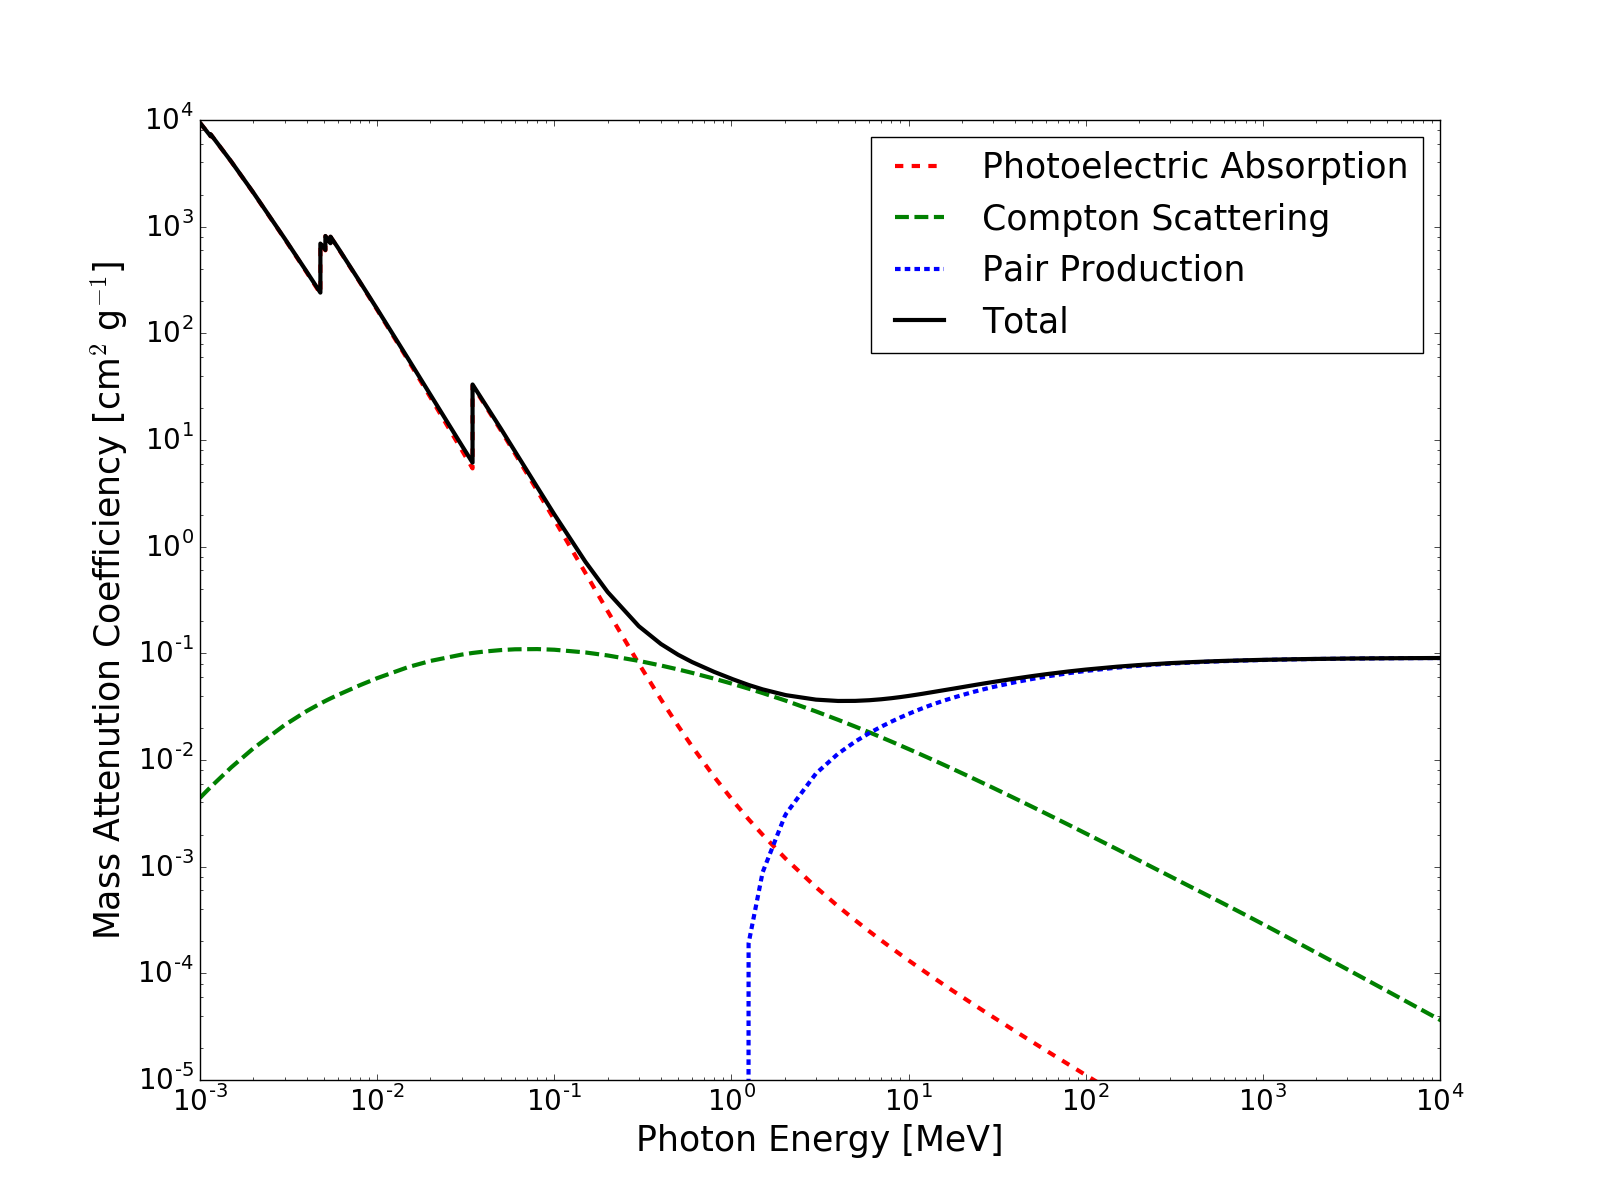
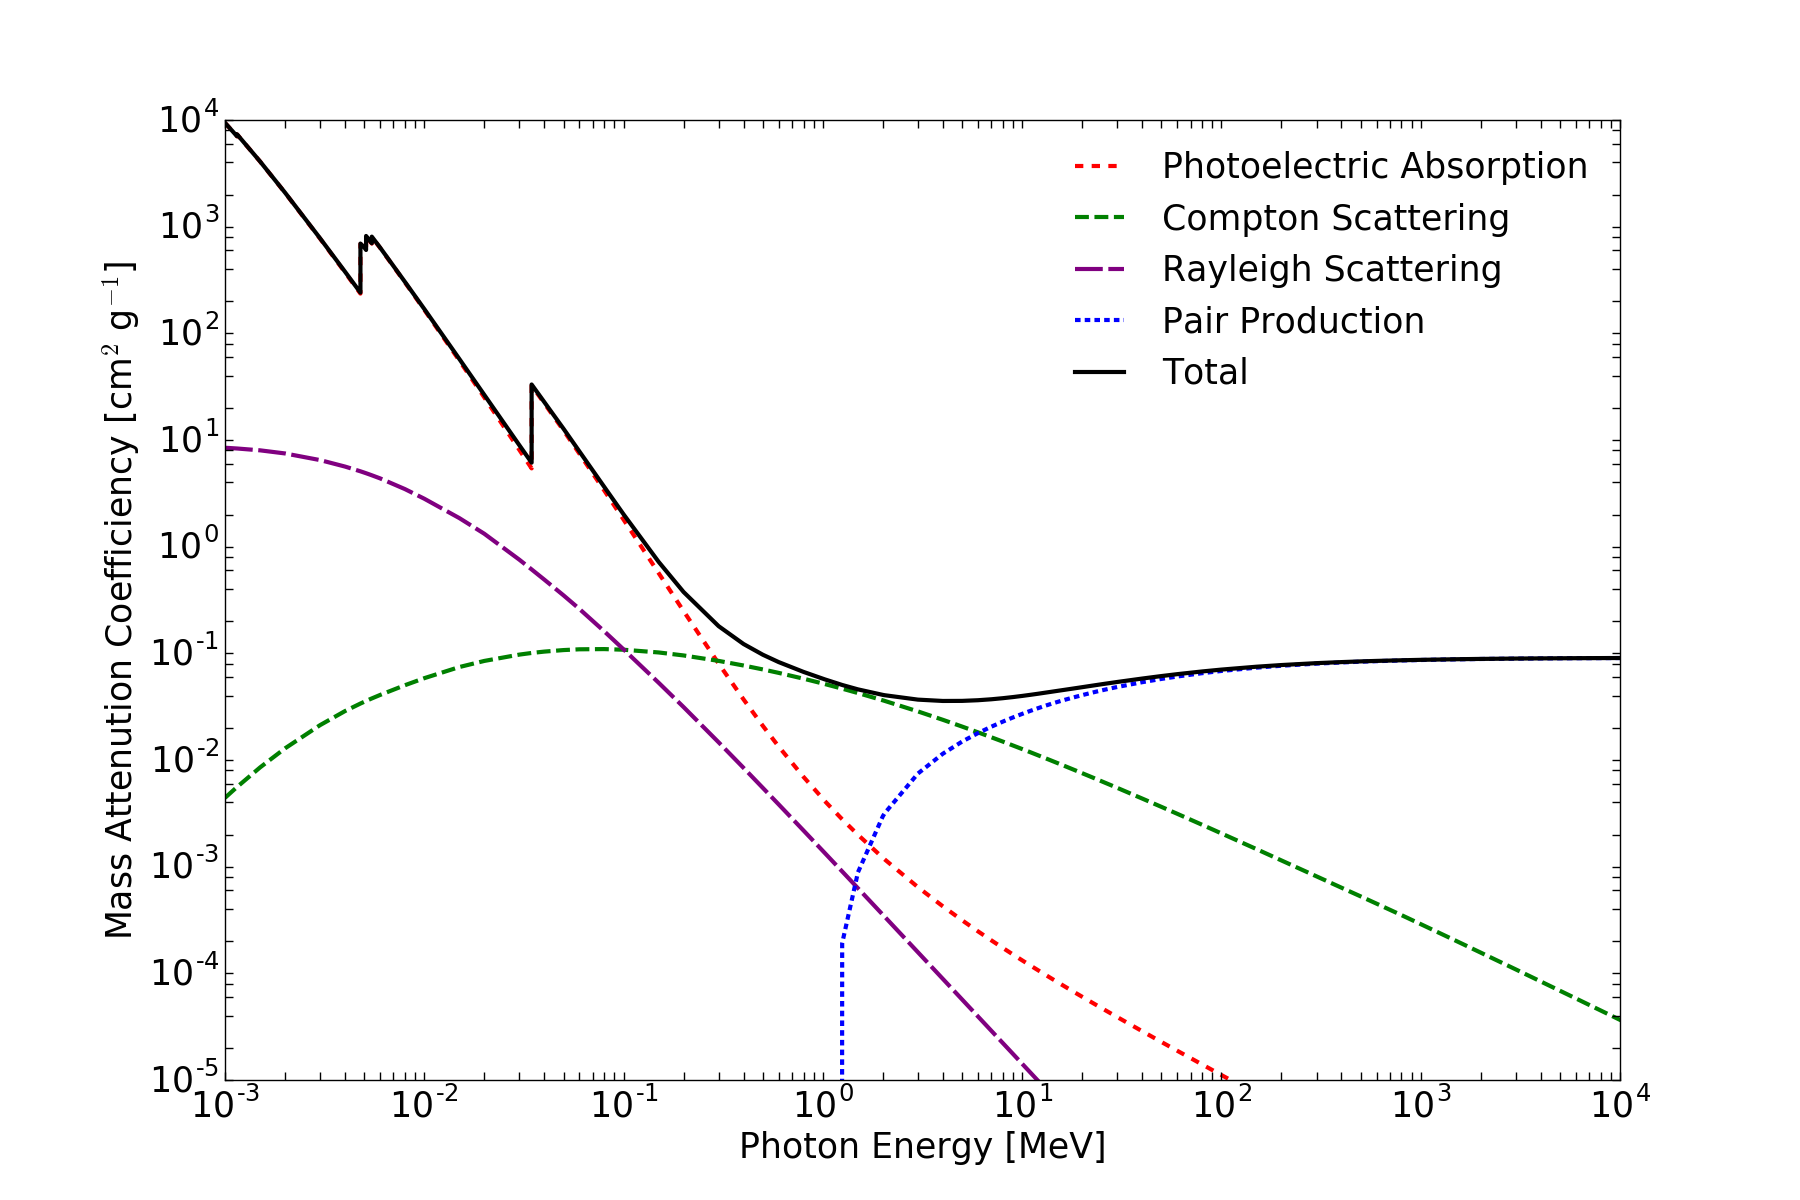
update

diff --git a/Chapter3/Chapter3.tex b/Chapter3/Chapter3.tex
@@ -199,7 +199,7 @@ to exceeding this gain.
 The relatively poor resolution is apparent in \figref{fig:xenon1t_pmt_spe} as the photoelectron peaks are hard to distinguish.  An
 important metric of the SPE spectrum is the peak-to-valley ratio, which divides the first PE peak by the valley that sits between it and
 the baseline noise.  As with $R$ it increases for low gains and eventually levels.  For gains of $2-3 \times 10^{6}$ the mean
-peak-to-valley ratio is $\sim 3$.
+peak-to-valley ratio is ${\sim} 3$.
 
 An additional six Hamamatsu R8520 PMTs reside in LXe outside the TPC near the top electrode for studying calibrations.  These PMTs have
 been used in a number of LXe TPCs including XENON100, the predecessor to XENON1T (\citeref{Goetzke2017}, see \citeref{Aprile2012a} for
@@ -215,7 +215,7 @@ light and charge can be measured.  A schematic is shown in \figref{fig:xenon1t_t
 PTFE panels that were treated with diamond tools to
 maximize VUV reflectivity.  Each interlocks with adjacent panels to achieve light-tightness, and the system is designed so that despite
 the high thermal expansion coefficient the radius does not contract when lowered to $-96^{\circ}\ \mathrm{C}$.  Outside the PTFE are 74
-field shaping rings made of low-radioactivity OFHC copper, each with a cross section of $\sim 10 \times 5\ \mathrm{mm^{2}}$.  They are
+field shaping rings made of low-radioactivity OFHC copper, each with a cross section of ${\sim} 10 \times 5\ \mathrm{mm^{2}}$.  They are
 supported by 18 PTFE pillars stationed around the circumference.  Two redundant
 chains connect adjoining rings via $5\ \mathrm{G \Omega}$ resistors, each with a $25\ \mathrm{G \Omega}$ resistor between the bottom and
 cathode.
@@ -283,7 +283,7 @@ tall by 1100 mm diamater and is metal-sealed
 with Helicoflex.  Surrounding it is the 2490 mm tall by 1620 mm diamater outer cryostat.  It is also composed of stainless steel but
 because there is no contact with xenon electropolishing is unncessary.  Materials were screened prior to construction for low-radioactivity
 selection.  The two are thermally isolated by Torlon polyamide-imide spacers and
-vacuum between them.  Heat loss is further mitigated to $\sim 75\ \mathrm{W}$ by aluminized mylar foil wrapped around the inner vessel.
+vacuum between them.  Heat loss is further mitigated to ${\sim} 75\ \mathrm{W}$ by aluminized mylar foil wrapped around the inner vessel.
 
 A 10 m high stainless steel support structure was built inside the water tank.  Attached are three M20 rods that suspend the
 cryostat.  They can be adjusted independently to tilt the cryostat, thereby changing the inclination of the LXe level with respect to the
@@ -305,15 +305,15 @@ TPC and inner vessel or GXe above the liquid level.  The nominal LXe temperature
 the cryostat is liquified by pulse-tube refrigerators (PTRs) into a funnel and flows back to the TPC through a designated pipe and
 deposited in the inner vessel beneath the TPC.  Because
 the PTRs are higher than the TPC the flow is guided by gravity.  \figref{fig:xenon1t_cryogenics_schmatic} shows the layout of the cryogenic
-system.  The two PTRs occupy independent cooling towers and can each deliver $\sim 250\ \mathrm{W}$ of cooling power, and with
-a total heat xenon heat load of $\sim 150\ \mathrm{W}$ only one needs to be active at any time.  The cooling towers along with much of the
+system.  The two PTRs occupy independent cooling towers and can each deliver ${\sim} 250\ \mathrm{W}$ of cooling power, and with
+a total heat xenon heat load of ${\sim} 150\ \mathrm{W}$ only one needs to be active at any time.  The cooling towers along with much of the
 GXe are located in the service building outside of the water tank  Each PTR connects to a copper cold finger
 inside the inner cryostat so they can be removed without exposing the xenon to air.  A proportional-integral-derivative (PID) controller
 monitors and adjusts the temperature of a resistive heater on the coldfinger to maintain stable pressure and temperature.
 
 A third cooling tower uses liquid nitrogen ($\mathrm{LN_2}$) and is used in the case of an emergency if both PTRs are being serviced or the
 heat load becomes too great from e.g. loss of power or insulation vacuum.  The $\mathrm{LN_2}$ flows from the $10 \mathrm{m^3}$ tank that
-is used by ReStoX (\secref{}).  The cooling power can regulated by adjusting the $\mathrm{LN_2}$ evaporation rate.  In the event the PTRs
+is used by ReStoX (\secref{subsec:xenon1t_restox}).  The cooling power can regulated by adjusting the $\mathrm{LN_2}$ evaporation rate.  In the event the PTRs
 lose power the $\mathrm{LN_2}$ cooling tower must react immediately to prevent rising pressure that can be damaging to PMTs among other
 things.  Sensors and controllers monitoring such a power loss are powered with uninterruptible power supplies (UPSs) to ensure a successful
 transition and operation of $\mathrm{LN_2}$.
@@ -347,7 +347,7 @@ efficiency $\epsilon$ as the fraction of heat necessary for temperature change a
 efficiency results in greater thermal energy transferred between the GXe and LXe and thus decreases the heat load on the system.  This is
 because instead of GXe entering the cryostat at roughly
 room temperature, it returns at approximately that of LXe, with much of it having condensed to LXe, putting less stress on the
-PTRs.  An essential ingredient of the heat transfer is the latent heat, which comprises $\sim 80\%$ of the total exchange.  The difference
+PTRs.  An essential ingredient of the heat transfer is the latent heat, which comprises ${\sim} 80\%$ of the total exchange.  The difference
 in vaporization temperature of the outgoing xenon and condensation temperature of incoming xenon is given by
 
 \begin{equation}
@@ -358,11 +358,10 @@ in vaporization temperature of the outgoing xenon and condensation temperature o
 where $T_{\mathrm{gl}} (P)$ is the temperature of the gas-liquid phase transition that depends on pressure, and $P_i$ and $P_o$ are the
 pressures of the incoming and outgoing xenon, respectively.  Because the conditions of the dynamical gas flow
 (\secref{subsec:xenon1t_pur}) cause $P_i > P_o$, $\Delta T_{\mathrm{ph}} > 0$, making it effective at heat transfer
-(\citeref{Aprile2012b}).
-
-A study with the Demonstrator - the
+(\citeref{Aprile2012b}).  A study with the Demonstrator - the
 experiment used to for research and development for XENON1T - showed a heat exchange efficiency of
-two heat exchangers in series of $\geq 96\%$ (\citeref{Aprile2012b}).
+two heat exchangers in series of $\geq 96\%$ (\citeref{Aprile2012b}).  Following the parallel-plate exchanger a heater provides additional
+thermal energy to the xenon moving towards the purification system.
 
 
 
@@ -370,32 +369,118 @@ two heat exchangers in series of $\geq 96\%$ (\citeref{Aprile2012b}).
 \label{subsec:xenon1t_pur}
 Contamination in LXe can present a number of problems.  As mentioned in \secref{subsec:tpcs_working_principle} electronegative
 impurities (e.g. O$_2$, H$_2$O, N$_2$O, etc.) will attach to drifting $e^-$, reducing the number that reach
-the liquid surface and thus the S2.  They will also absorb scintillation, which pushes our energy threshold up as fainter signals become
-harder to detect.  \figref{fig:xenon1t_pur_absorption_spectra} shows the Xe scintillation spectrum along with the \otwo and \htwoo vapor
-absorption coefficients.  We can see there is large overlap - especially for H$_2$O.  In addition to electronegative there are intrinsic
-impurities including Kr and Rn but these are discussed in \secref{xenon1t_distillation}.
+the liquid surface and thus the S2.
+
+Impurities will also attenuate scintillation, which pushes our energy threshold up as fainter signals become harder to detect.  This is
+described by
+
+\begin{equation}
+I(x) = I_0 e^{-x / \lambda_{\mathrm{att}}}
+\label{eq:xenon1t_pur_atten}
+\end{equation}
+
+where $I_0$ is initial number of photons, $I(x)$ is the number after traveling a distance $x$, and $\lambda_{\mathrm{att}}$ is the
+attenuation length.  $\lambda_{\mathrm{att}}$ is dependent on the absorption and scatter lengths, $\lambda_{\mathrm{abs}}$ and
+$\lambda_{\mathrm{scat}}$.  The absorption length describes the true loss of photons while the scatter refers to photons that elastically
+scatter without energy loss.  The attenuation length can then be written
+$1 / \lambda_{\mathrm{att}} = 1 / \lambda_{\mathrm{abs}} + 1 / \lambda_{\mathrm{scat}}$.  \figref{fig:xenon1t_pur_absorption_spectra} shows
+the Xe scintillation spectrum along with the absorption coefficients for \otwo and \htwoo vapor at concentrations of 1 ppm.  We can see
+there is large overlap at lower wavelengths - especially for H$_2$O - and that observations under these circumstances would lead to an
+incorrect measurement of the scintillation spectrum.  In addition to electronegative there are intrinsic
+impurities including Kr and Rn but these are discussed in \secref{xenon1t_kr_dist}.
 
 \begin{figure}
 \centering
 \includegraphics[width=0.8\textwidth]{AbsorptionSpectra}
-\caption{Xe scintillation spectrum along with absorption coefficients for oxygen and water vapor.  \otwo has a maximum value of overlap
-with Xe of $\sim 0.1$ around 166 nm.  \htwoo covers a larger range of xenon's spectrum and has a much more significant impact, with a
-maximum value of $> 0.4$ at approximately 172 nm and $\sim 0.2$ at 178 nm.  Image credit: \citeref{}.}
+\caption{Xe scintillation spectrum along with absorption coefficients for oxygen and water vapor present at 1 ppm.  \otwo has a maximum
+value of overlap
+with Xe of ${\sim} 0.1$ around 166 nm.  \htwoo covers a larger range of xenon's spectrum and has a much more significant impact, with a
+maximum value of $> 0.4$ at approximately 172 nm and ${\sim} 0.2$ at 178 nm.  Image credit: \citeref{Ozone2005}.}
 \label{fig:xenon1t_pur_absorption_spectra}
+\end{figure}
+
+\begin{figure}
+\centering
+\includegraphics[width=\textwidth]{Fig4.1FromOzone2005}
+\label{fig:xenon1t_pur_absorp_dist}
 \end{figure}
 
 Electronegative impurities come primarily from outgassing of detector materials.  They have different \electron attachment rates (see
 \figref{fig:attachment_rate} for examples) so are measured in O$_2$-equivalent - that is, the analogous concentration of oxygen if it
-were the only contaminant.  For LXe experiments the necessary concentration is $\mathcal{O}(10^{-9}$ parts per billion (ppb) or less.
+were the only contaminant.  For LXe experiments the necessary concentration is $\mathcal{O}(10^{-9})$ parts per billion (ppb) or less.
 
+In addition
+to the GXe from the TPC (after passing through heat exchanger and heater as described in \secref{subsec:xenon1t_cryo}), connections are
+made between
+each of the cooling towers and the purification system.  Because impurities are lighter than xenon we can anticipate them having a larger
+presence in the gas.  While the GXe impurity concentration has no direct effect on \electron loss, impurities should migrate between the
+LXe and GXe.  Purifying the GXe then should largely reduce the impurities that pass into the liquid.
 
-
-
+Xenon from ReStoX  (\secref{subsec:xenon1t_restox}) and bottles are also connected to the purification system.  A separate heat exchanger
+sits between ReStoX and purification but is less effective when xenon is not incoming and outgoing (not during detector filling).  In
+addition to cleaning the Xe as it is transfered to the from RestoX to the cryostat, the purification system connects ReStoX to the Kr
+distillation column (\secref{subsec:xenon1t_kr_dist}).  The column returns the xenon after distillation to purification.  All systems that
+feed into the purification system do so before the getters and are available as outputs as well.  A small tube between the purification
+and cryostat before the heat exchanger siphons GXe to the TPC bell to maintain pressure, and is regulated by a flow controller.  The
+numerous connections makes the purification system a hub for transferring xenon between systems.
 
 \begin{figure}
-\includegraphics[width=0.8\textwidth]{AbsorptionSpectra}
-\caption{\citeref{Ozone2005}}
+\centering
+\includegraphics[width=0.8\textwidth]{Fig8Aprile2017b}
+\label{fig:xeno1t_pur_schematic}
 \end{figure}
+
+The purification system consists of two redundant purification loops, each of which can operate independently of the other.  The flow
+is driven by CHART QDrives, with one on one loop and two on the other.  They were chosen for their high-capacity and hermetically sealed
+pump volume, the latter of which was not true with KNF pumps that were used in XENON100 (\textbf{check this}).  This is important because
+exposure to air could cause a significant drop in purity, and has occurred in the past with KNFs.  They are
+magnetically-resonant and operate via a compression space with oscillating externally-driven pistons.  Motors, valves, and pistons are
+not lubricated, making it an excellent choice for high-purity.  Unfortunately QDrives emanate \ce{^{222}Rn} can require frequent
+maintenance if operated at too great a voltage (for larger flow).  For the former \ce{Rn} emanation measurements were made prior to
+installation with the lowest being chosen.  For the latter they are operated at safe conditions and since the beginning of Science Run 0
+no issues have arisen.  It turns out the limiting factor on our circulation speed is not a result of the pumps but the pressure difference
+from tubes leading to the system caused by too small a radius.  With the upgrade to XENONnT these will be replaced with larger-radii.  One
+QDrive is installed in one loop and two in the other.
+
+The flow of the GXe is maintained by two MKA 1579A mass-flow controllers - one on either branch.  The assumption before the experiment went
+online was these would limit the speed when necessary, but because we did not achieve our goal these have minimal impact.  Still, they can
+be used for further restriction.  The xenon then passes through SAES PS4-MT50-R high-temperature rare-gas purifiers, or getters.  They
+use heated ($400^{\circ}\ \mathrm{C}$) zirconium to form unbreakable bonds with carbide, nitride, and oxide, lowering the impurity content
+to < 1 ppb.  A bypass valve allows the xenon to pass un-purified in the event that the it does not need to be cleaned.
+
+A Tiger Optics HALO+ H$_2$O monitor measures the water content in the purified GXe to track the purification efficiency.  It can measure
+concentrations down to 400 ppt.  As with the getters, it can be bypassed.  The Xe is then forwarded to the cryostat, bell, ReStoX, or
+bottles (Kr column occurs after the purification loops before the HALO).
+
+The components of the system are electropolished and able to be baked up to ${\sim} 120^{\circ}\ \mathrm{C}$ for decreased outgassing during
+operation.  The purification system has a number of valves that allow the versatility described in this section.  The majority are pneumatic and can
+be operated remotely with the slow control system.  The remainder are manual valves situated in select locations: to and from the cryostat,
+inside the calibration box, and before the vacuum pump, which can be used to evacuate individual sections or all of the system.  These are
+in place as a precaution against accidental openings of the actuated valves that could produce problems.
+
+
+\subsection{ReStoX}
+\label{subsec:xenon1t_restox}
+The Recovery and Storage system for XENON1T (ReStoX) hosts xenon not in use by other systems.  With a volume of 4.95 m$^{3}$
+(diameter of 2.1 m), wall thickness of 28 mm, and ability to withstand pressures up to 73 bar, it can support as much as 7.6 tons of xenon
+as a gas, liquid, or super-critical fluid.  It is constructed from stainless steel and insulated with vacuum from an outer sphere, where
+thermal conductance is minimized with superinsulation and limited contact to an external heat load of ${\sim}50\ \mathrm{W}$.
+
+As discussed in \secref{xenon1t_pur} the
+purification system doubles as a router between the different systems.  This offers an advantage over previous LXe experiments.
+
+\begin{figure}
+\centering
+\includegraphics[width=0.8\textwidth]{Fig10Aprile2017b}
+\label{fig:xenon1t_restox_pic}
+\end{figure}
+
+
+
+\subsection{Kr Distillation}
+\label{subsec:xenon1t_kr_dist}
+
+
 
 
 In an electric field $E$ an \electron that is freed but does not recombine with its parent or other ionized atoms will move anti-parallel

diff --git a/Chapter2/Chapter2.tex b/Chapter2/Chapter2.tex
@@ -481,8 +481,8 @@ energy region of interest, as shown in \figref{fig:phot_atten}.
  \centering
  \includegraphics[width=0.8\textwidth]{PhotonAttenuation}
  \caption{Mass attenuation coefficient for photon energies $10^{-3} - 10^{4} \mathrm{MeV}$.  In addition to the total, values for
- photoelectric absorption,
- Compton scattering, and pair production are shown}
+ photoelectric absorption, Compton scattering, Rayleigh scattering, and pair production are shown.  The two sharp rises in the
+ $10^{-3} - 10^{-2}$ range are due to the L- and K-shell, in order of increasing energy.}
  \label{fig:phot_atten}
 \end{figure}
 
@@ -803,7 +803,7 @@ N$_{2}$O, and SF$_{6}$.  We see that for N$_{2}$O the attaching rate constant in
 decerase.  Typically impurity concentration is given in O$_{2}$-equivalent values, or the concentration of \otwo if it was solely
 responsible for \electron attachment.  For modeling electron lifetime it turns out that using the \otwo curve in
 \figref{fig:attachment_rate} gives a good approximation as it is expected to the most dominant (\textbf{check this}).  Removing these
-impurities will be discussed in detail in \secref{}.
+impurities will be discussed in detail in \secref{subsec:xenon1t_pur}.
 
 \begin{figure}
 \includegraphics[width=0.8\textwidth]{AttachmentRate}

diff --git a/PythonCode/Plots/PhotonScattering.py b/PythonCode/Plots/PhotonScattering.py
@@ -26,7 +26,7 @@ columnsToPlot= [
 #		'TotwoCoherent'
 #		}
 
-fig, ax = plt.subplots(1, 1, figsize=(16, 12))
+fig, ax = plt.subplots(1, 1, figsize=(18, 12))
 
 ax.plot(
 	df.PhotonEnergy,
@@ -45,6 +45,16 @@ ax.plot(
 	linestyle='dashed',
 	dashes=(10, 4),
 	label='Compton Scattering'
+)
+
+ax.plot(
+	df.PhotonEnergy,
+	df.CoherentScat,
+	color='purple',
+	linewidth=3,
+	linestyle='dashed',
+	dashes=(20, 4),
+	label='Rayleigh Scattering'
 )
 
 ax.plot(
@@ -76,9 +86,10 @@ ax.set_xlabel('Photon Energy [MeV]', size=25)
 ax.set_ylabel('Mass Attenution Coefficiency [cm$^{2}$ g$^{-1}$]', size=25)
 
 for tick in ax.xaxis.get_major_ticks():
-	tick.label.set_fontsize(20)
+	tick.label.set_fontsize(25)
 for tick in ax.yaxis.get_major_ticks():
-	tick.label.set_fontsize(20)
-ax.legend(fontsize=25)
+	tick.label.set_fontsize(25)
+ax.tick_params(length=6, width=1, which='both')
+ax.legend(fontsize=25, frameon=False)
 plt.savefig('/Users/Zach/XENON/Thesis/Chapter2/Figures/PhotonAttenuation.png', format='png')
 plt.show()
